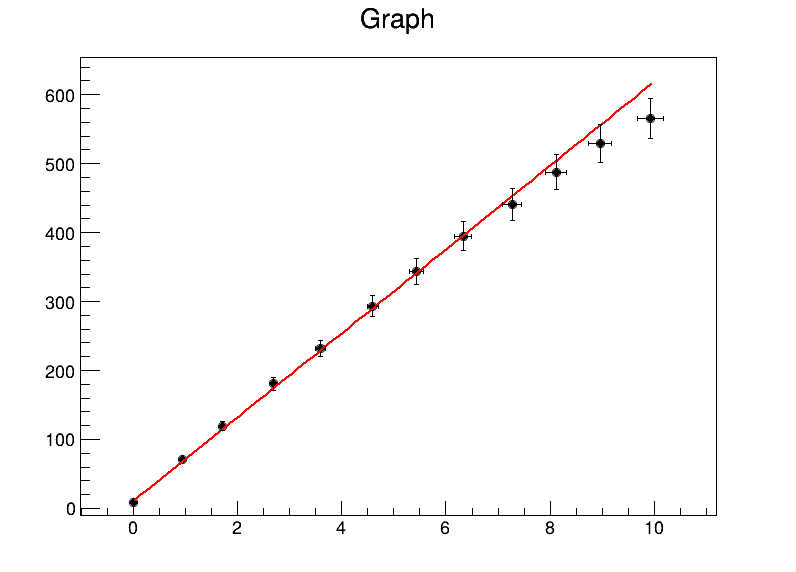
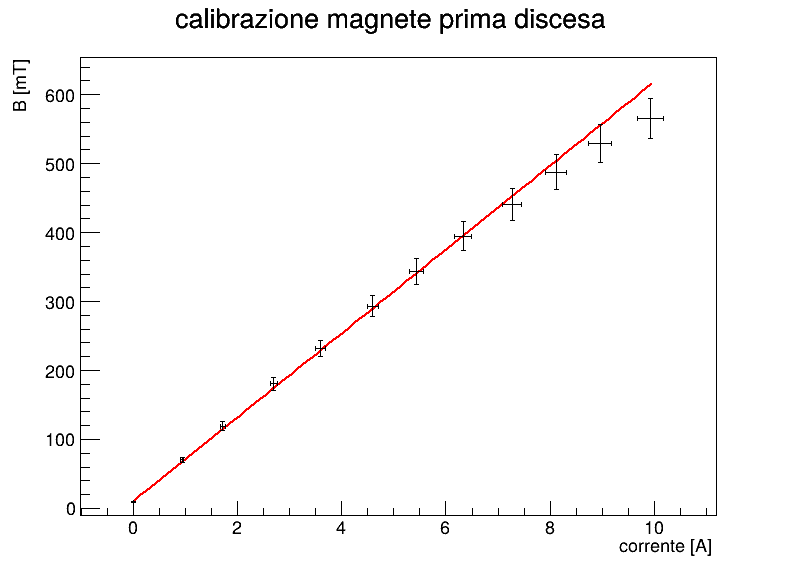
finito calibrazione

diff --git a/LAB_struttura/calibrazione_magnete_seconda_discesa.C b/LAB_struttura/calibrazione_magnete_seconda_discesa.C
@@ -1,0 +1,97 @@
+ #include<iostream>
+#include "TGraphErrors.h"
+#include "TCanvas.h"
+#include<vector>
+#include "TF1.h"
+
+using namespace std;
+
+//PRIMA SALITA
+
+void calibrazione_magnete_seconda_discesa(){
+    vector<double> corrente={
+      9.63,
+        9.11,
+        8.01,
+        7.17,
+        6.47,
+        5.52,
+        4.61,
+        3.72,
+        2.67,
+        1.69,
+        0.91,
+        0,
+    };
+    vector<double> B={
+       
+       554.5,
+        537,
+        484.9,
+        444.7,
+        399,
+        348.6,
+        292.6,
+        243.8,
+        176.7,
+        120,
+        65.4,
+        8.9,
+       
+       
+       
+       
+    };
+    //
+    //errori
+    vector<double> err_corrente={
+        0.34075,
+        0.32775,
+        0.30025,
+        0.27925,
+        0.26175,
+        0.238,
+        0.21525,
+        0.193,
+        0.16675,
+        0.14225,
+        0.12275,
+        0.1,
+    };
+    vector<double> err_B={
+        28.725,
+        27.85,
+        25.245,
+        23.235,
+        20.95,
+        18.43,
+        14.73,
+        12.29,
+        8.935,
+        6.1,
+        3.37,
+        0.545,
+            };
+
+    //
+    int len= corrente.size();
+    TGraphErrors* gr1= new TGraphErrors(len, corrente.data(), B.data(), err_corrente.data(), err_B.data());
+    //
+    TCanvas* c1= new TCanvas("c1", "rampe calibrazione", 800, 600);
+
+    TF1* fit= new TF1("fit", "[0]+[1]*x", 0, 10);
+
+
+
+    gr1->Fit("fit", "R");
+     gr1->GetXaxis()->SetTitle("corrente [A]");
+    gr1->GetYaxis()->SetTitle("B [mT]");
+     gr1->SetTitle("calibrazione magnete seconda discesa");
+     gr1->SetMinimum(-10);
+    gr1->Draw("AP.");
+    c1->Print("seconda_discesa.png", "png");
+    cout<<"il pvalue è "<< fit->GetProb() <<endl;
+
+
+
+}

diff --git a/LAB_struttura/calibrazione_magnete_seconda_salita.C b/LAB_struttura/calibrazione_magnete_seconda_salita.C
@@ -1,0 +1,92 @@
+ #include<iostream>
+#include "TGraphErrors.h"
+#include "TCanvas.h"
+#include<vector>
+#include "TF1.h"
+
+using namespace std;
+
+//PRIMA SALITA
+
+void calibrazione_magnete_seconda_salita(){
+    vector<double> corrente={
+        0,
+        0.85,
+        1.86,
+        2.76,
+        3.46,
+        4.55,
+        5.3,
+        6.5,
+        7.46,
+        8.2,
+        9.09,
+        9.88,
+    };
+    vector<double> B={
+       8.7,
+        61.2,
+        121.7,
+        176.8,
+        221,
+        285.5,
+        334.5,
+        399.3,
+        454.3,
+        494.5,
+        532.4,
+        564.9,
+    };
+    //
+    //errori
+    vector<double> err_corrente={
+        0.1,
+        0.12125,
+        0.1465,
+        0.169,
+        0.1865,
+        0.21375,
+        0.2325,
+        0.2625,
+        0.2865,
+        0.305,
+        0.32725,
+        0.347,
+    };
+    vector<double> err_B={
+      0.535,
+        3.16,
+        6.185,
+        8.94,
+        11.15,
+        14.375,
+        17.725,
+        20.965,
+        23.715,
+        25.725,
+        27.62,
+        29.245,
+            };
+
+    //
+    int len= corrente.size();
+    TGraphErrors* gr1= new TGraphErrors(len, corrente.data(), B.data(), err_corrente.data(), err_B.data());
+    //
+    TCanvas* c1= new TCanvas("c1", "rampe calibrazione", 800, 600);
+
+    TF1* fit= new TF1("fit", "[0]+[1]*x", 0, 10);
+
+
+
+    gr1->Fit("fit", "R");
+     gr1->GetXaxis()->SetTitle("corrente [A]");
+    gr1->GetYaxis()->SetTitle("B [mT]");
+     gr1->SetTitle("calibrazione magnete seconda salita");
+     gr1->SetMinimum(-10);
+    gr1->Draw("AP.");
+    c1->Print("seconda_salita.png", "png");
+    cout<<"il pvalue è "<< fit->GetProb() <<endl;
+
+
+
+}

diff --git a/LAB_struttura/calibrazione_magnete.C b/LAB_struttura/calibrazione_magnete.C
@@ -1,4 +1,4 @@
-#include<iostream>
+ #include<iostream>
 #include "TGraphErrors.h"
 #include "TCanvas.h"
 #include<vector>
@@ -10,6 +10,7 @@ using namespace std;
 
 void calibrazione_magnete(){
     vector<double> corrente={
+        0,
         0.91,
         1.85,
         2.8,
@@ -23,6 +24,7 @@ void calibrazione_magnete(){
         9.91
     };
     vector<double> B={
+        8.7
         62.91,
         121.42,
         178.03,
@@ -38,6 +40,7 @@ void calibrazione_magnete(){
     //
     //errori
     vector<double> err_corrente={
+        0.000001,
        0.02275,
         0.04625,
         0.07,
@@ -51,6 +54,7 @@ void calibrazione_magnete(){
         0.24775,
     };
     vector<double> err_B={
+        0.54,
      3.2455,
         6.171,
         9.0015,
@@ -75,6 +79,9 @@ void calibrazione_magnete(){
 
 
     gr1->Fit("fit", "R");
+     gr1->GetXaxis()->SetTitle("corrente [A]");
+    gr1->GetYaxis()->SetTitle("B [mT]");
+     gr1->SetTitle("calibrazione magnete prima salita");
     gr1->Draw("AP.");
     c1->Print("prima_salita.png", "png");
     cout<<"il pvalue è "<< fit->GetProb() <<endl;

diff --git a/LAB_struttura/calibrazione_magnete_prima_discesa.C b/LAB_struttura/calibrazione_magnete_prima_discesa.C
@@ -77,9 +77,12 @@ void calibrazione_magnete_prima_discesa(){
     TF1* fit= new TF1("fit", "[0]+[1]*x", 0, 10);
 
 
-    gr1->SetMarkerStyle(20);
+   // gr1->SetMarkerStyle(20);
    gr1->Fit("fit", "R");
     gr1->SetMinimum(-10);
+    gr1->GetXaxis()->SetTitle("corrente [A]");
+    gr1->GetYaxis()->SetTitle("B [mT]");
+     gr1->SetTitle("calibrazione magnete prima discesa");
     gr1->Draw("AP.");
     c1->Print("prima_discesa.png", "png");
     cout<<"il pvalue è "<< fit->GetProb() <<endl;
